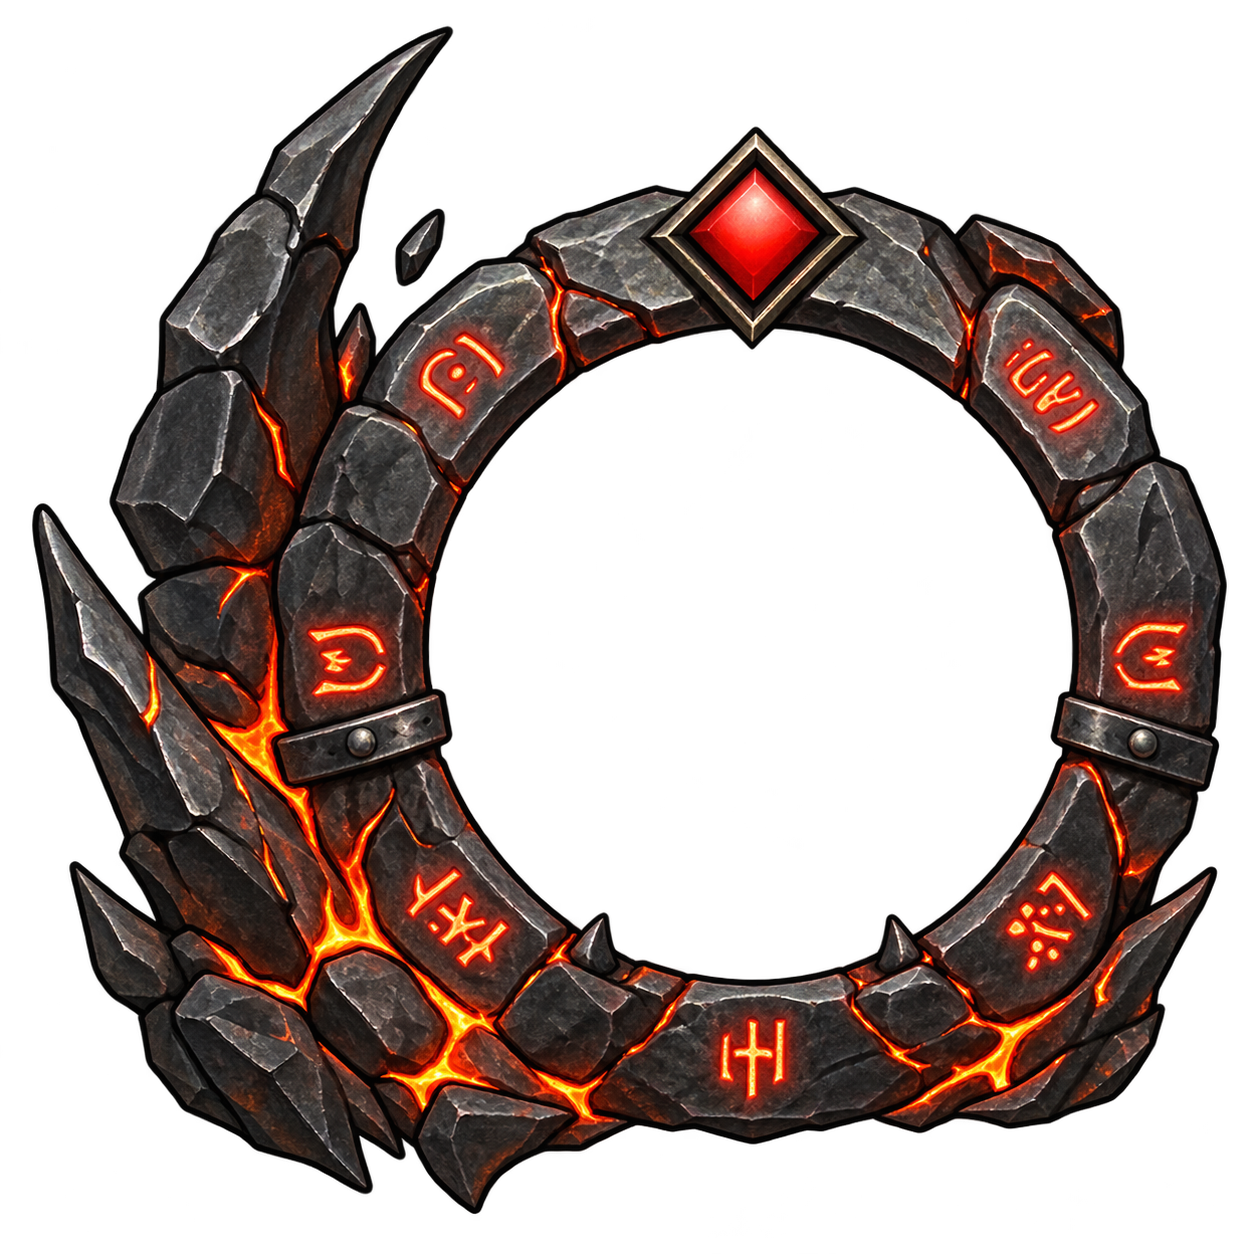
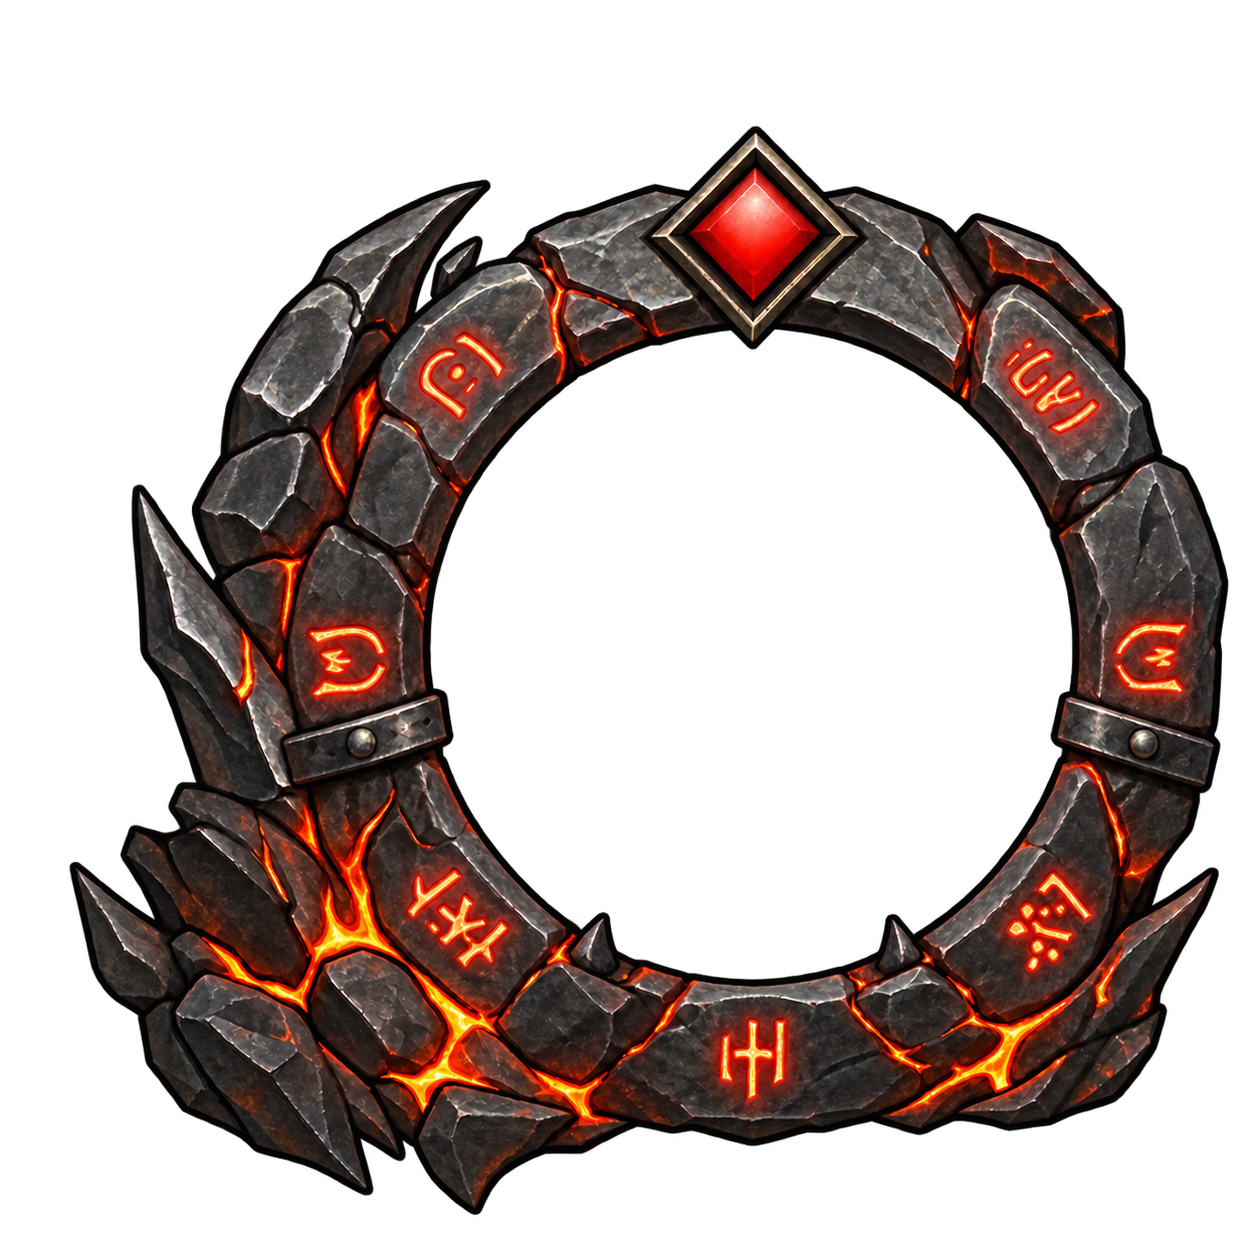
[Codex] feat: 收短球框尖角並向內包覆資源球

diff --git a/codex-authored/battle-hud/runic-frames/SOURCE.md b/codex-authored/battle-hud/runic-frames/SOURCE.md
@@ -9,3 +9,5 @@
 - 沒有新增VFX Preset；舊版orb-carving母圖、匯出及工具保留，不納本輪變更。參考圖僅素材庫追溯，未作為遊戲貼圖載入。
 
 - 使用者追加接入間距：雙球連框相對原位置各向外10px；不移動技能列或放大底座。
+
+- 2026-10-16追加修訂：依使用者wrap-guide.png縮短上方外側長刃、向內貼合圓環；透明圓孔／符文／寶石與短內刺沿原設計。內建imagegen編修紅版後以同形狀產生藍版，詳見PROMPTS-wrap.json。遊戲球內改不透明煙色底；固定HUD組件共同縮放、兩模式完全同構，底座貼框不留背景接縫。舊母圖與提示詞保留在Git歷史50940ad。
